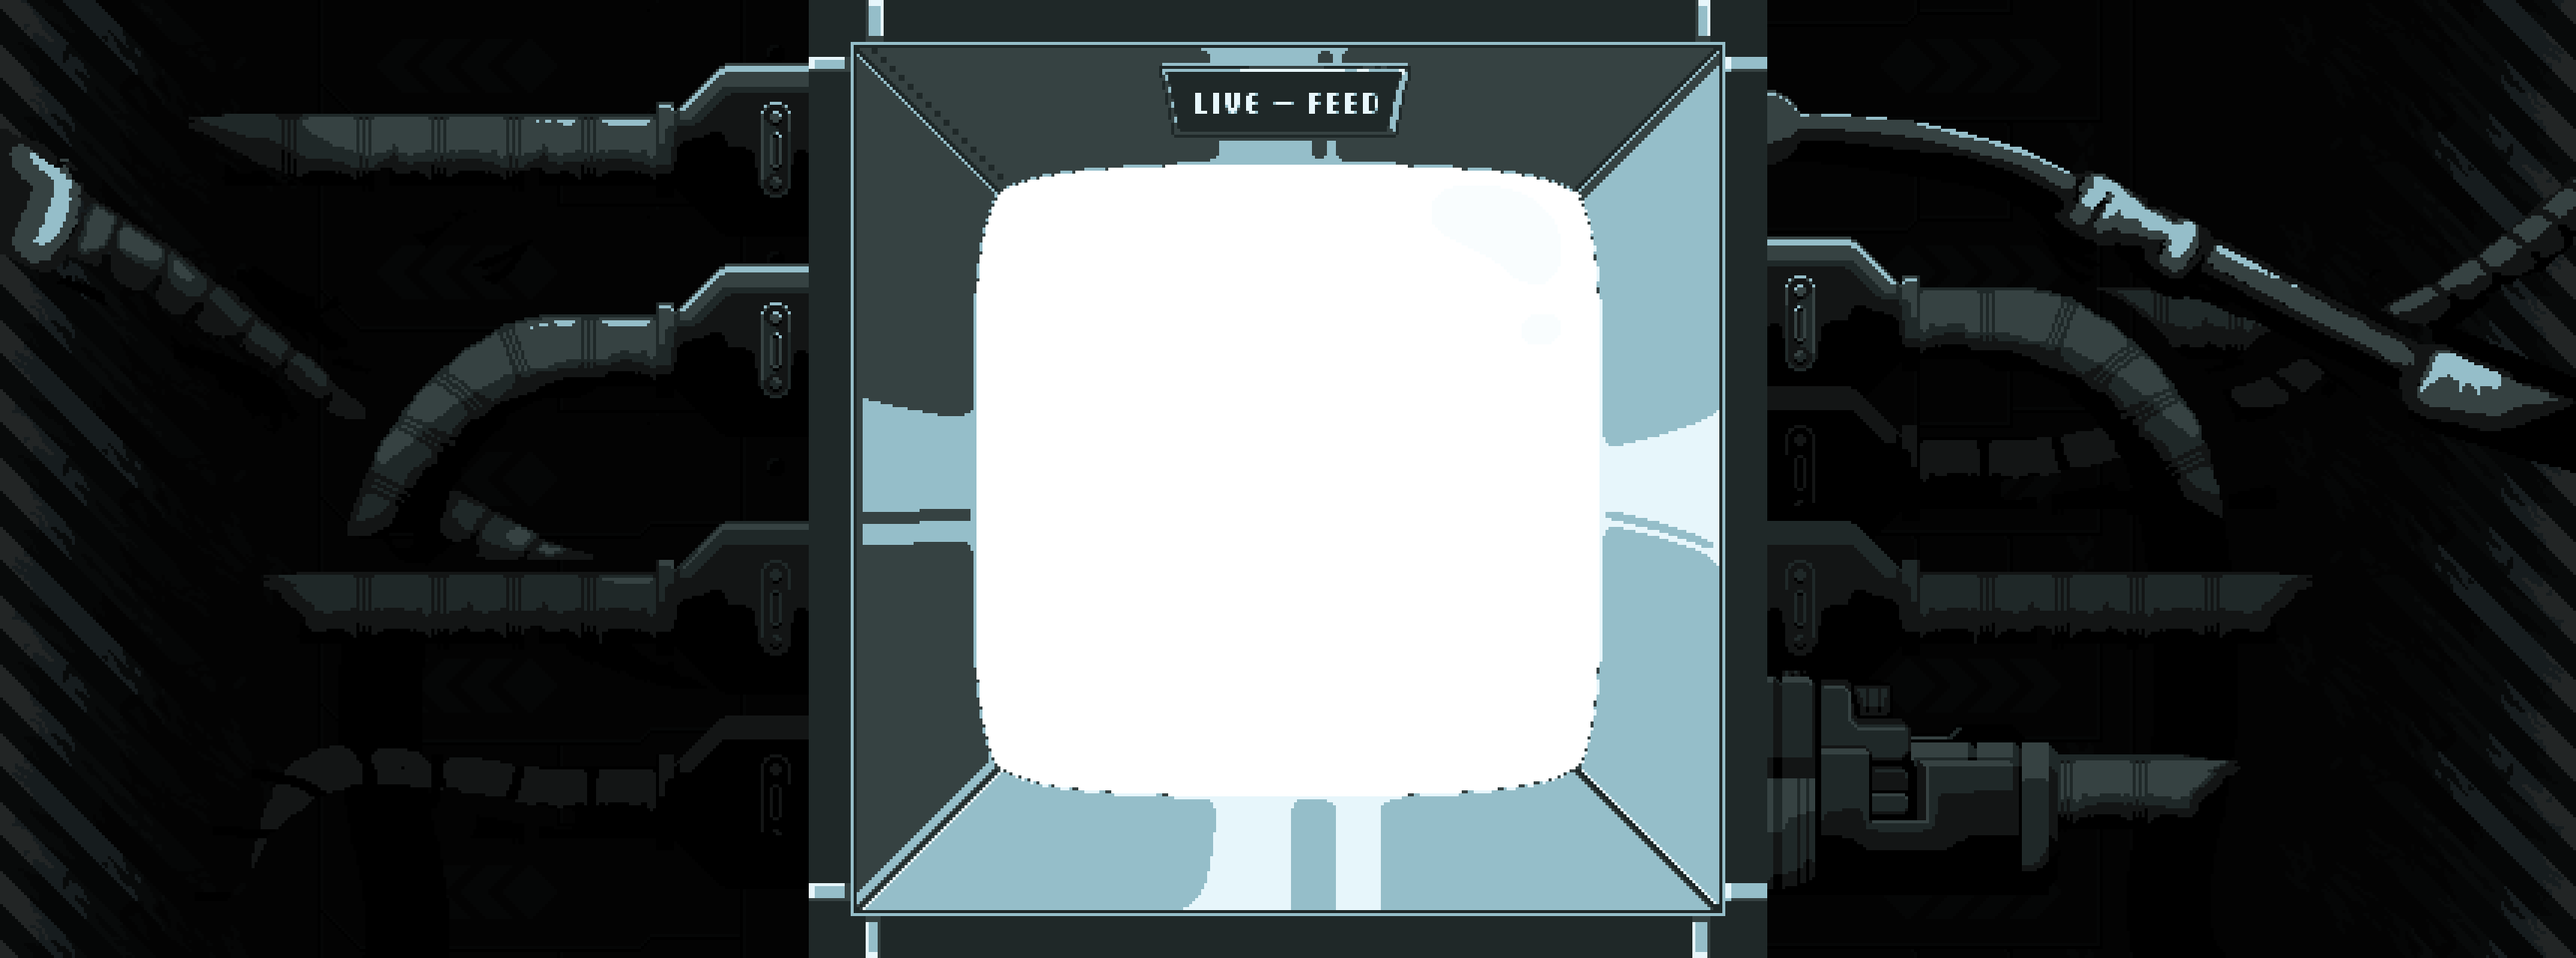
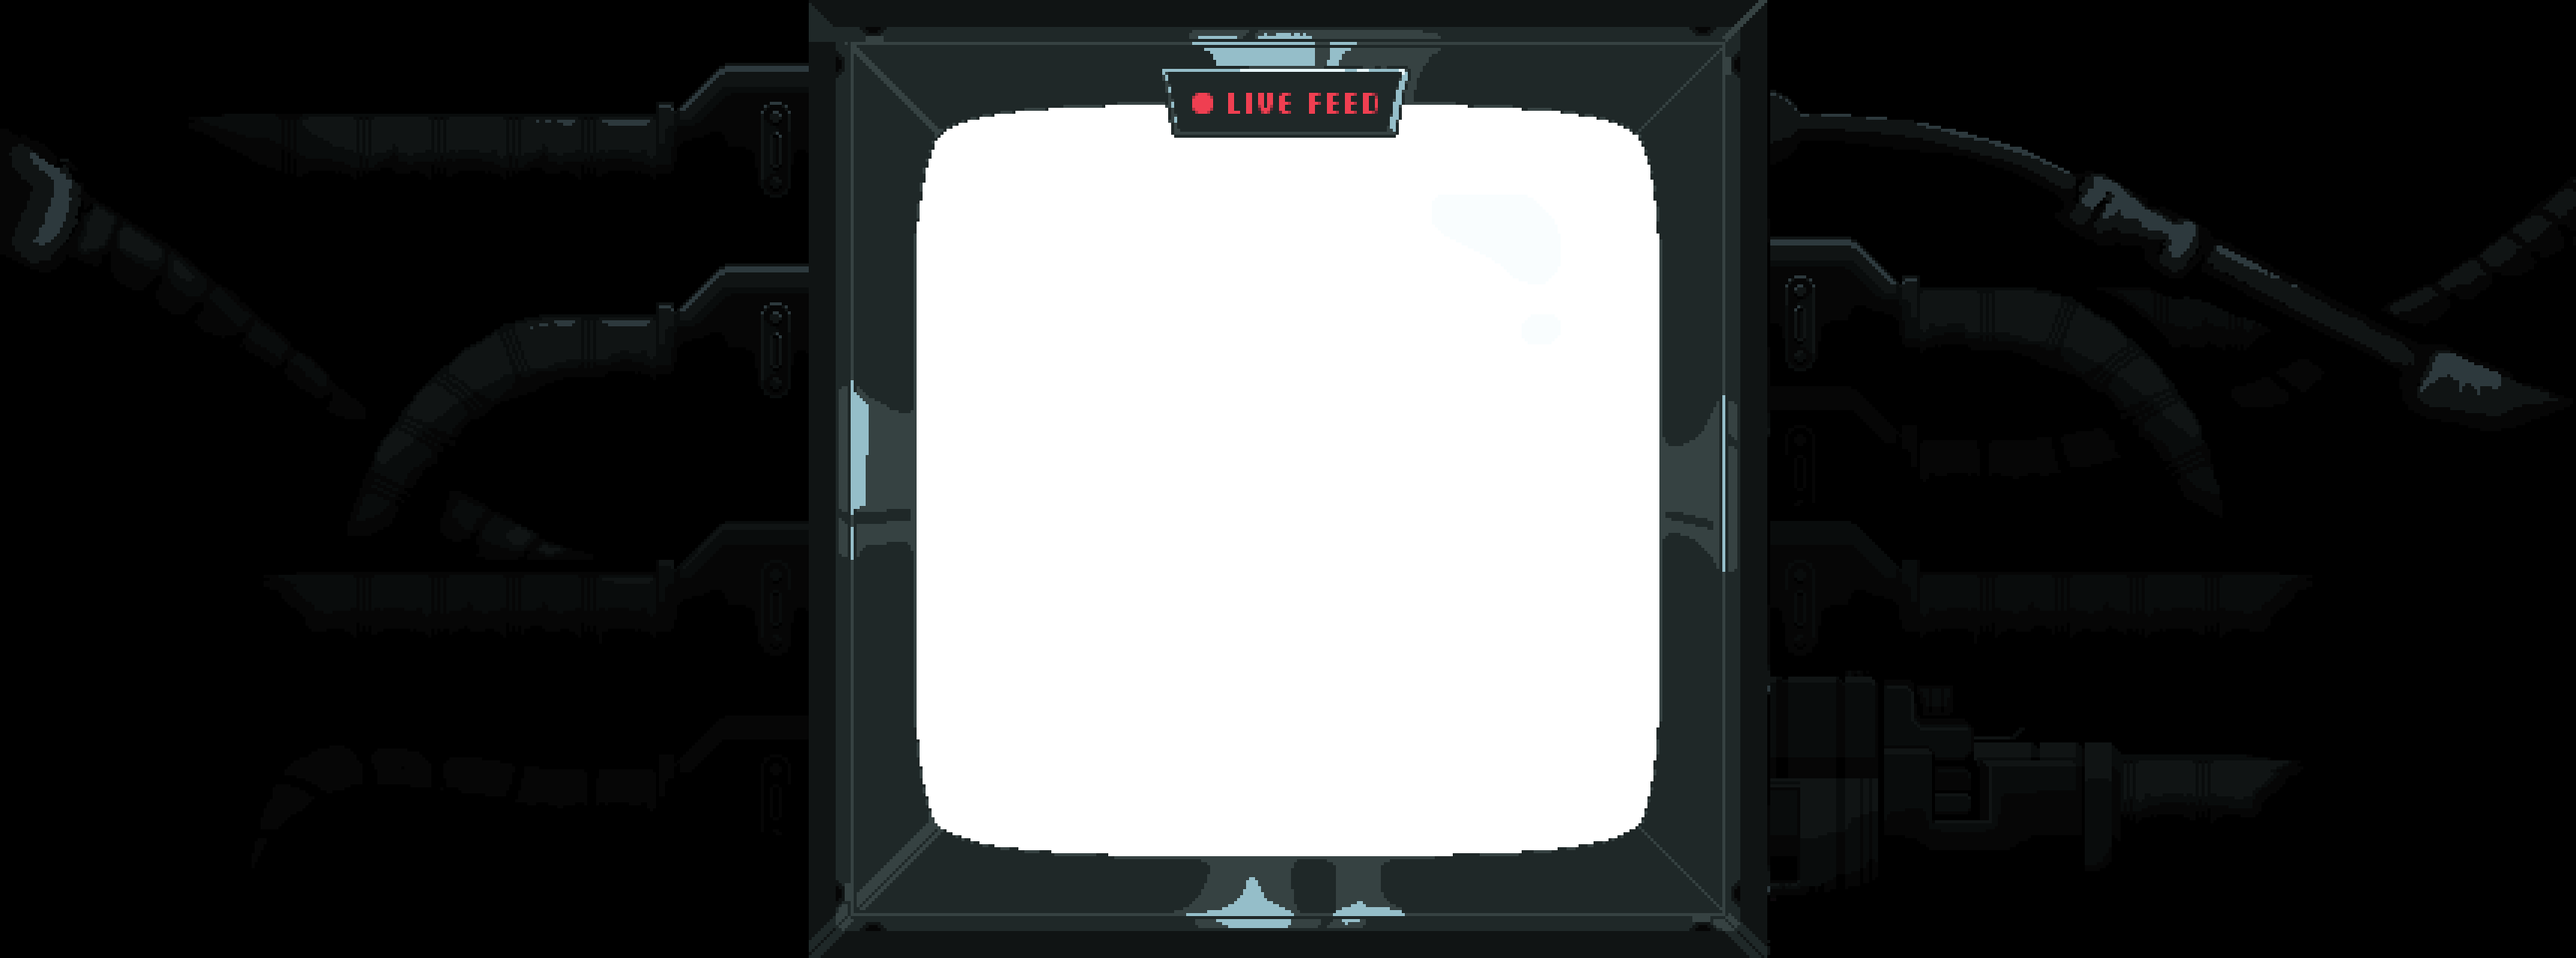
WIP to get a WIP PR

diff --git a/index.html b/index.html
@@ -18,8 +18,13 @@
         <link rel="stylesheet" href="css/title.css">
     </head>
     <body>
+
+        <!-- App Scale UI -->
         <div class="app-ui--container">
+
+            <!-- Game Scale UI -->
             <div class="game-ui--container">
+
                 <!-- Title -->
                 <div data-title-screen class="title--container modal--container modal--container__visible">
                     <img class="title--graphic" src="assets/da-title.png" alt="Title Title Screen">
@@ -53,30 +58,45 @@
                     </div>
                 </div>
 
+
+                <div class="canvas--scanlines"></div>
+
+                <!-- The Game Itself -->
+                <canvas id="game"></canvas>
+
+            </div>
+        </div>
+
+        <!-- App UI Overlay -->
+        <div class="app-ui--overlay">
+            <div class="game-ui--container">
+
                 <!-- Score UI -->
                 <div class="game-ui--score-wrapper">
                     <div class="game-ui--score">0</div>
                     <div class="game-ui--high-score-label">High<br />Score</div>
-                    <div class="game-ui--high-score"></div></div>
-            </div>
-        </div>
-        <div class="ui" style="display: none;">
-            <div class="canvas-ui">
-                <div class="help-button button">❓</div>
-                <div class="help-window modal" style="display: none">
-                    <div class="help-close button modal--close">close</div>
-                    Repair the turret, dodge flak!<br />
-                    Your score is how many wall segments you've repaired. <br />Press
-                    the letter that corresponds to the wall segment to move your player
-                    there.<br />Refresh to restart!<br />
-                    Thanks for playing! –Team Tunk
+                    <div class="game-ui--high-score"></div>
                 </div>
-                <div class="options-button">⚙</div>
-                <div class="restart-button button">♻</div>
+
+                <!-- Buttons -->
+                <div class="ui" style="display: none;">
+                    <div class="canvas-ui">
+                        <div class="help-button button">❓</div>
+                        <div class="help-window modal" style="display: none">
+                            <div class="help-close button modal--close">close</div>
+                            Repair the turret, dodge flak!<br />
+                            Your score is how many wall segments you've repaired. <br />Press
+                            the letter that corresponds to the wall segment to move your player
+                            there.<br />Refresh to restart!<br />
+                            Thanks for playing! –Team Tunk
+                        </div>
+                        <div class="options-button">⚙</div>
+                        <div class="restart-button button">♻</div>
+                    </div>
+                </div>
+
             </div>
         </div>
-        <div class="canvas--scanlines"></div>
-        <canvas id="game"></canvas>
         <script src="https://cdnjs.cloudflare.com/ajax/libs/pixi.js/5.1.3/pixi.min.js"></script>
         <script src="js/keyboard-observer.js"></script>
         <script src="js/ui.js"></script>

diff --git a/css/game-ui.css b/css/game-ui.css
@@ -1,5 +1,5 @@
 .game-ui--container {
-    z-index: 100;
+    z-index: 0;
     width: 90vmin;
     height: 90vmin;
     position: absolute;
@@ -62,7 +62,7 @@
     width: 100%;
     height: 100%;
     border-radius: 0.5rem;
-    background-color: #5e8089;
+    background-color: #95bec9;
 }
 
 /* Button "Border" */
@@ -74,7 +74,7 @@
     width: 100%;
     height: 100%;
     border-radius: 0.5rem;
-    background-color: #0e0b0e;
+    background-color: #364242;
     transform: translate3d(0, 6px, 0);
     transition: 100ms;
 }
@@ -109,16 +109,19 @@
     align-items: center;
     justify-content: center;
     position: absolute;
-    bottom: -0.5vmin;
+    bottom: -2.3vmin;
     height: 10vmin;
     left: 50%;
-    transform: translateX(-50%);
-    background-color: #000033;
+    transform: translateX(-50%) skewX(0) rotate(0deg);
+    background-color: #101414;
     background-blend-mode: screen;
     padding: 2vmin 1.5vmin 3vmin;
-    border-radius: 9999px;
+    border-radius: 1vmin;
     border-bottom-left-radius: 0;
     border-bottom-right-radius: 0;
+    border: 0.2vmin solid #95bec9;
+    border-bottom: 0 solid #101414;
+    /* box-shadow: 2.5vmin -1vmin 0.6vmin rgba(0, 0, 0, 0.15); */
 }
 
 .game-ui--score {

diff --git a/css/style.css b/css/style.css
@@ -23,8 +23,8 @@ body {
 }
 canvas,
 .canvas--scanlines {
-    width: 67.5vmin;
-    height: 67.5vmin;
+    width: 90vmin;
+    height: 90vmin;
     position: absolute;
     top: 50%;
     left: 50%;
@@ -36,8 +36,8 @@ canvas,
 }
 .canvas-ui {
     z-index: 100;
-    width: 67.5vmin;
-    height: 67.5vmin;
+    width: 90vmin;
+    height: 90vmin;
     position: absolute;
     top: 50%;
     left: 50%;
@@ -157,7 +157,7 @@ canvas,
 .canvas--scanlines {
     overflow: hidden;
     position: absolute;
-    z-index: 2000;
+    z-index: 900;
     background-color: transparent;
 }
 .canvas--scanlines::after {
@@ -176,9 +176,10 @@ canvas,
         rgba(255, 0, 0, 0) 4px
     );
     z-index: 999999999;
+    mix-blend-mode: overlay;
 }
 .canvas--scanlines::before {
-    opacity: 0.35;
+    opacity: 0.25;
     pointer-events: none;
     content: '';
     position: absolute;
@@ -187,6 +188,7 @@ canvas,
     transform: translateY(-100%);
     top: 0;
     left: 0;
+    mix-blend-mode: overlay;
     background: repeating-linear-gradient(
         0deg,
         rgba(255, 255, 255, 0),

diff --git a/css/app-ui.css b/css/app-ui.css
@@ -1,8 +1,22 @@
-.app-ui--container {
+.app-ui--container::after {
+    pointer-events: none;
+    content: '';
+    display: block;
     background-image: url('/assets/overlay-console.png');
     background-size: cover;
     background-position: center;
     height: 100%;
-    z-index: 10000;
+    z-index: 1000;
     position: relative;
+}
+
+.app-ui--overlay {
+    position: absolute;
+    width: 100%;
+    height: 100%;
+    top: 0;
+    left: 0;
+    right: 0;
+    bottom: 0;
+    z-index: 1001;
 }

diff --git a/css/title.css b/css/title.css
@@ -9,7 +9,7 @@
 }
 
 .title--graphic {
-    width: 100%;
+    width: 90%;
     height: auto;
 }
 
